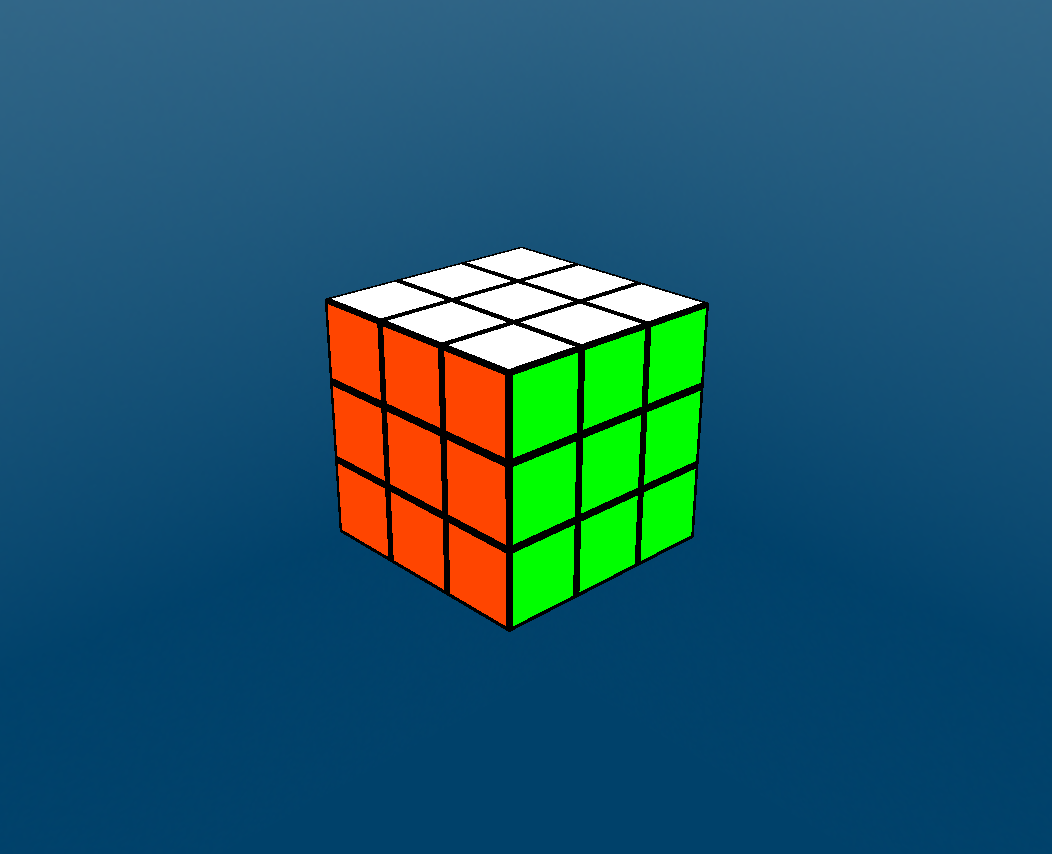
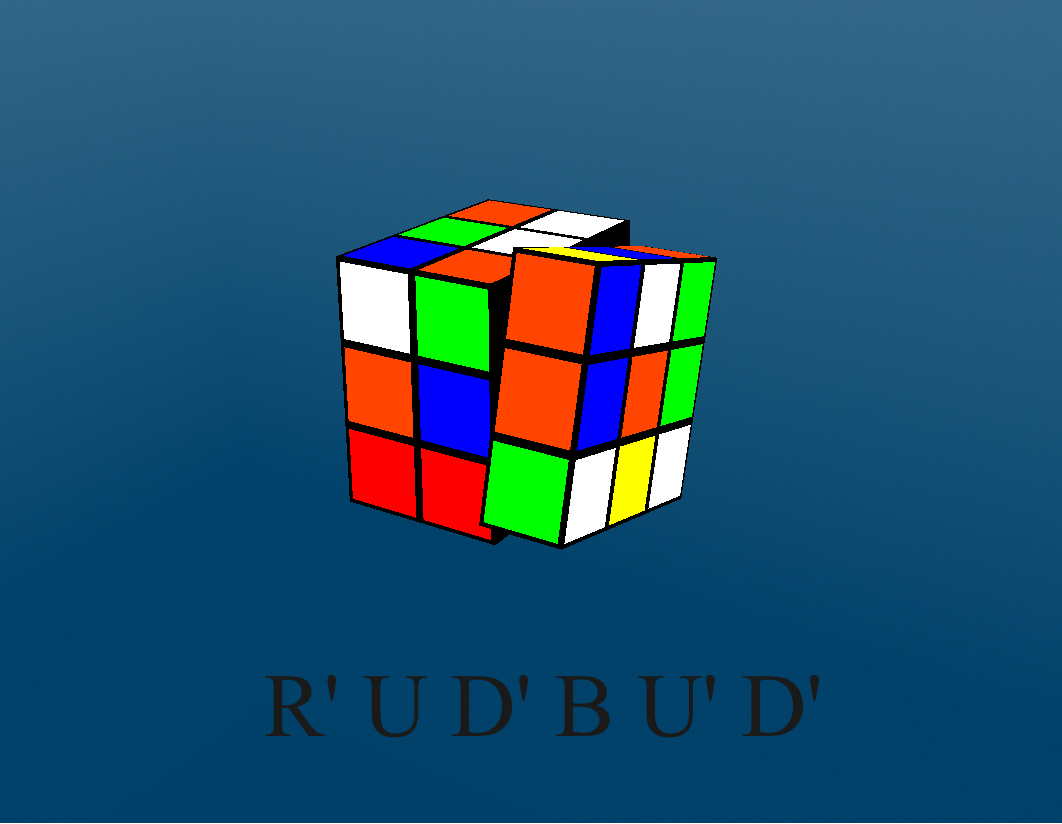
Small update

diff --git a/README.md b/README.md
@@ -1,5 +1,16 @@
-![Alt text](Photo.png?raw=true "Solar System")
+# Rubiks Cube
+Simulator of Rubik's Cube made in C++ and modern OpenGL. All rotation are described in accordance with the official notation
+ie. clockwise rotations are described as (F)ront, (B)ack, (U)p, (D)own, (L)eft and (R)ight; counter-clockwise rotations determines postfix '.
+Front correspond to the face with blue center cubie and Up to the face with white center cubie.
 
+![Screenshot](Photo.png?raw=true "Rubiks Cube")
+
+## Controlls
+To rotate Front, Back, Up, Down, Left or Right face clockwise press respectively F, B, U, D, L or R key. 
+For counter counter-clockwise rotation simply hold shift when rotating face.
+
+You can move camera by holding left mouse botton or by direction keys on numpad 
+alternatively camera can be set to look directly at cube's Front, Right or Up face by pressing 1, 3 or 7 on numpad.
 
 ## Dependencies
 * GLFW
